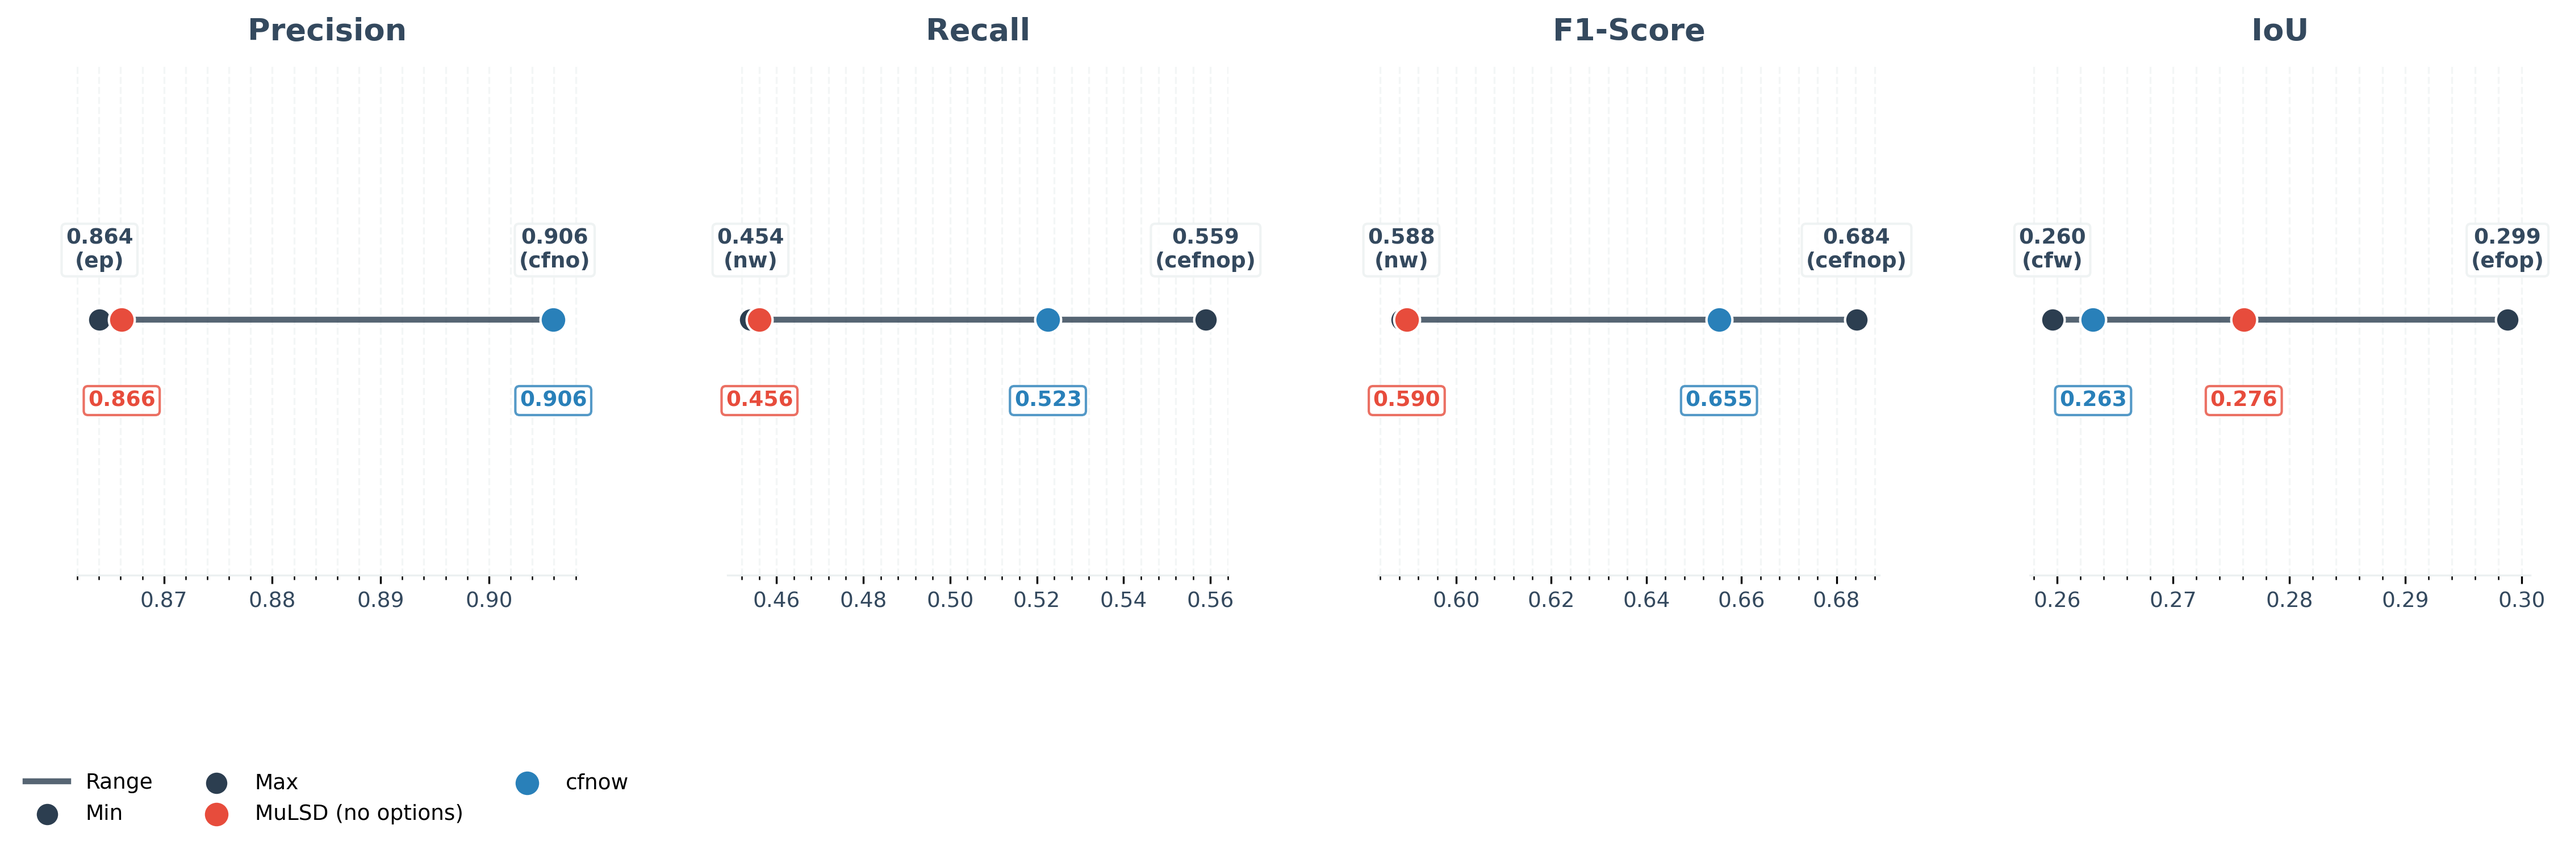
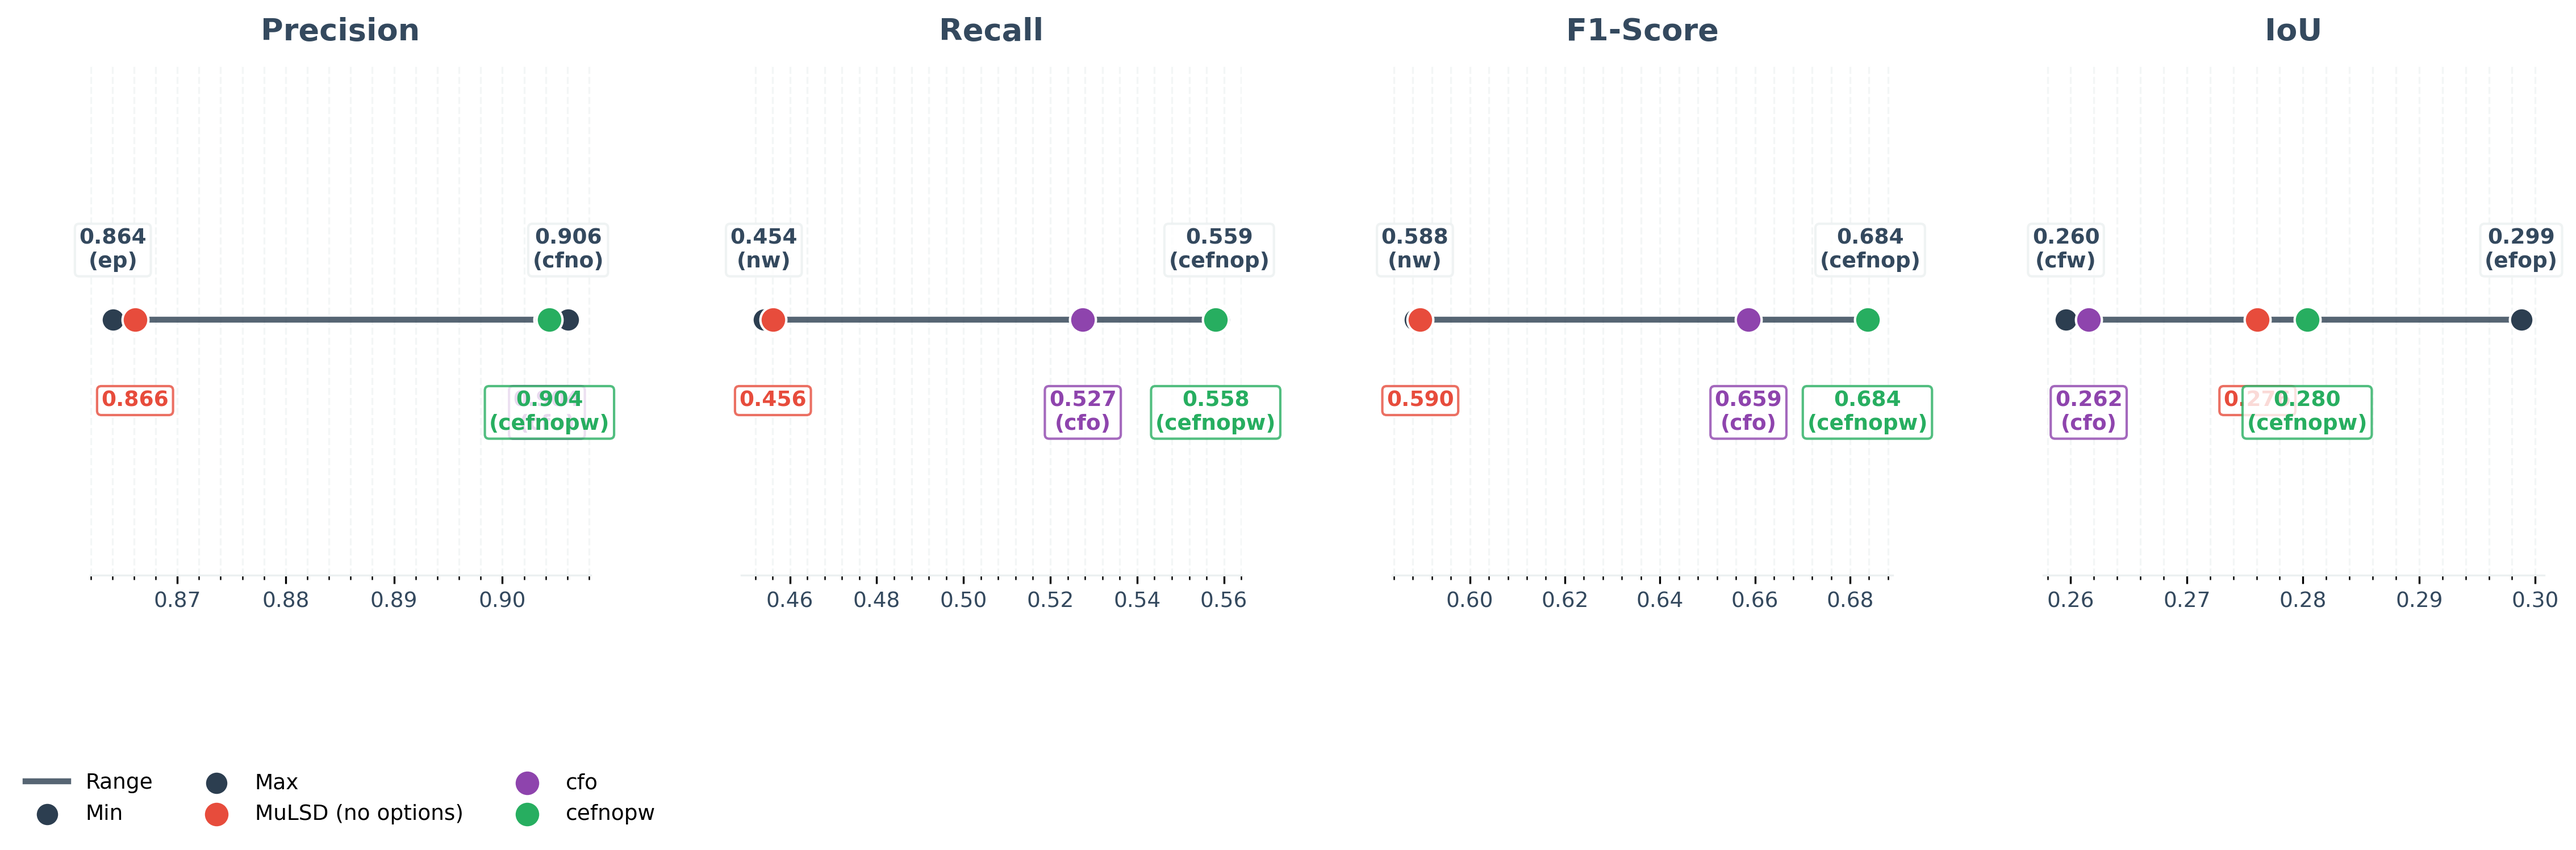
Update README and eval.py for clarity and accuracy; modify benchmark options and enhance documentation

diff --git a/eval.py b/eval.py
@@ -342,7 +342,8 @@ def plot_benchmark_ranges(benchmarks: list[BenchmarkScore]) -> None:
         highlighted_options = [
             ("muLSD", "#e74c3c"),  # Red
             ("", "#e74c3c"),
-            ("cfnow", "#2980b9"),  # Blue for cfno
+            ("cfo", "#8e44ad"),  # Purple for cfo
+            ("cefnopw", "#27ae60"),  # Green for cefnopw
         ]
         for opt, color in highlighted_options:
             if opt in values:
@@ -358,7 +359,7 @@ def plot_benchmark_ranges(benchmarks: list[BenchmarkScore]) -> None:
                     label=opt if opt else "MuLSD (no options)",
                 )
                 ax.annotate(
-                    f"{val:.3f}\n({opt})" if (opt and opt != "cfnow") else f"{val:.3f}",
+                    f"{val:.3f}\n({opt})" if (opt and opt != "cfno") else f"{val:.3f}",
                     xy=(val, 0),
                     xytext=(0, -30),
                     textcoords="offset points",
@@ -607,7 +608,7 @@ if __name__ == "__main__":
 
     # Compare max and min benchmarks for 4 metrics
     diff_scores = compare_benchmarks(
-        options1="", options2="cenop", benchmarks=all_benchmark_scores
+        options1="", options2="cfo", benchmarks=all_benchmark_scores
     )
     if diff_scores is None:
         logger.error("Could not compare benchmarks.")

diff --git a/README.md b/README.md
@@ -32,6 +32,7 @@ To install `uv`, follow the [official guide](https://docs.astral.sh/uv/getting-s
 
 3. Compute the metrics and run tests on results with: **`eval.py`**
 
+   - Run it inside `ablation_tests` folder after creating `benchmark_*` folders.
    - Extract scores from benchmark
    - Compute averages on combinations or on images
    - Run Wilcoxon tests for every pair of datasets (with option/without options)
